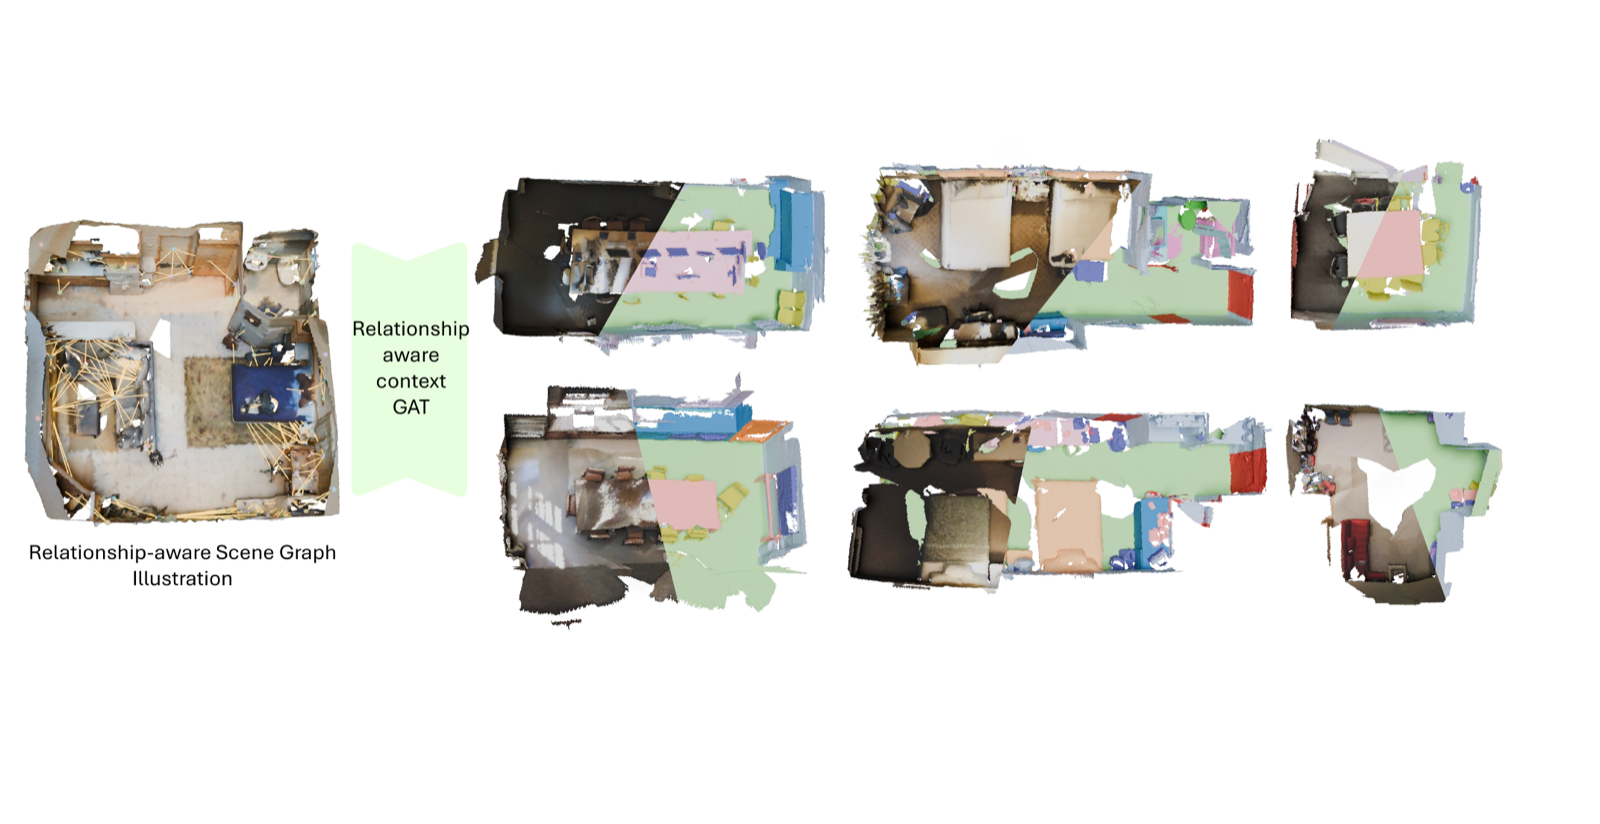
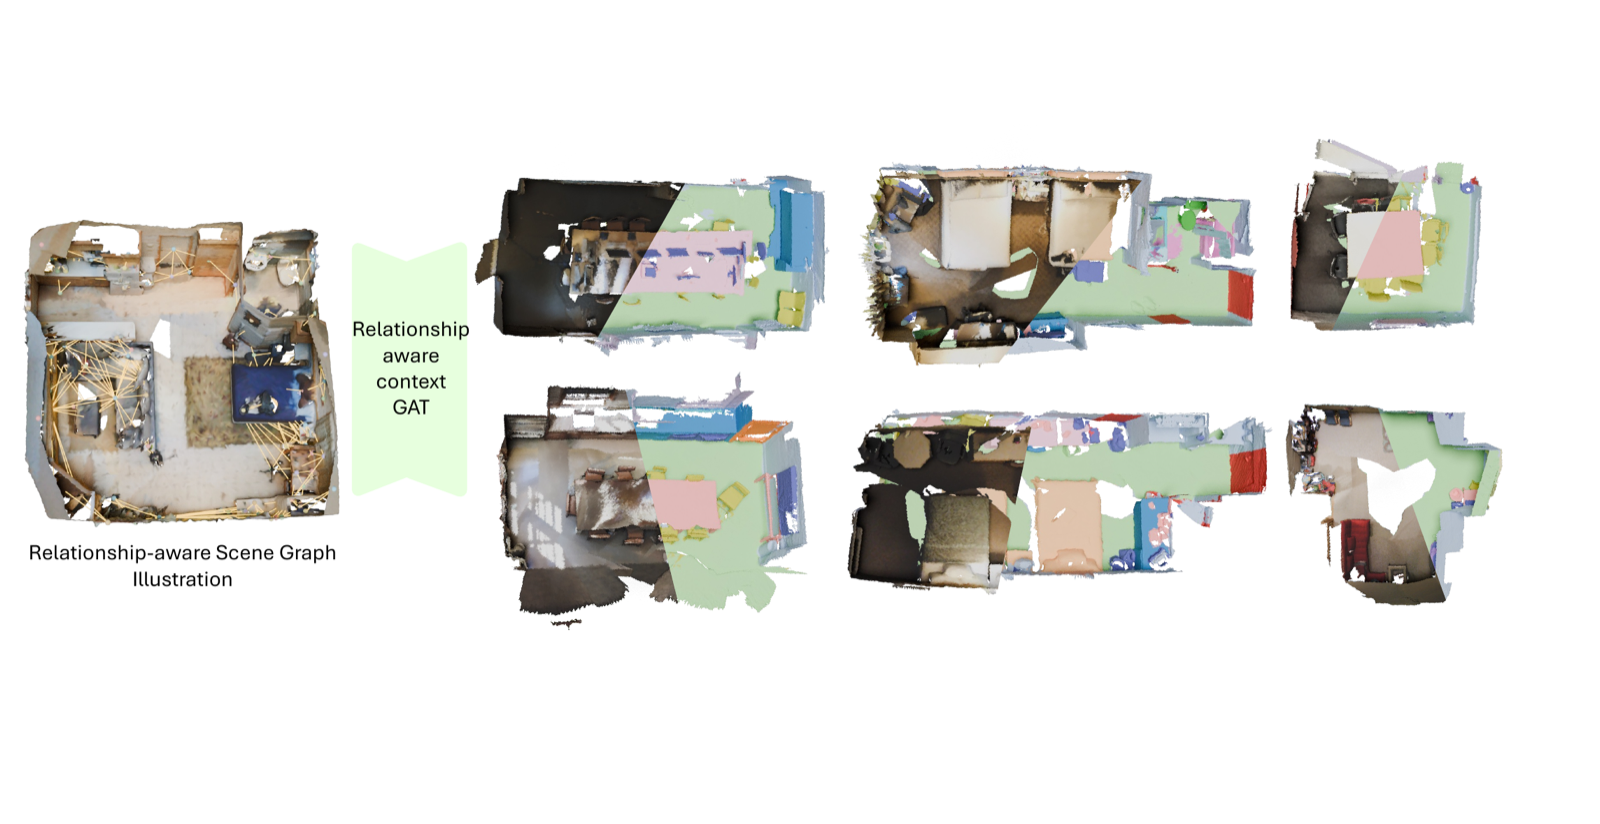
Add Experiments table carousel; refresh teaser and video
- New Experiments section: main (ScanNetV2/ScanNet200), ScanNet++, and Replica
  tables in a carousel; Ours row highlighted, column-best in bold
- Generalize carousel JS to support multiple carousels
- Regenerate teaser from teaser_eccv.pdf; swap in the compressed ECCV video
- Add Experiments nav anchor

diff --git a/index.html b/index.html
@@ -30,6 +30,7 @@
     <a class="nav-brand" href="#top">RelGraphOV</a>
     <div class="nav-right">
       <a class="nav-link" href="#video">Video</a>
+      <a class="nav-link" href="#experiments">Experiments</a>
       <a class="nav-link" href="#bibtex">BibTeX</a>
       <!-- More Research dropdown. TODO: replace each href="#" with the project page URL. -->
       <div class="nav-dropdown" id="more-research">
@@ -210,6 +211,93 @@
           </li>
         </ol>
       </div>
+    </div>
+  </div>
+</section>
+
+<!-- ===================== EXPERIMENTS (table carousel) ===================== -->
+<section class="section" id="experiments">
+  <div class="container is-max-desktop">
+    <h2 class="title is-3 has-text-centered">Experiments</h2>
+    <div class="carousel" id="exp-carousel">
+      <div class="carousel-track">
+
+        <!-- Slide 1: main table -->
+        <div class="carousel-slide">
+          <div class="table-wrap">
+            <table class="exp-table">
+              <thead>
+                <tr><th rowspan="2" class="lcol">Method</th><th colspan="2">ScanNetV2</th><th colspan="2">ScanNet200</th></tr>
+                <tr><th>mIoU</th><th>mAcc</th><th>mIoU</th><th>mAcc</th></tr>
+              </thead>
+              <tbody>
+                <tr><td class="lcol">MSeg Voting</td><td>45.6</td><td>54.4</td><td>–</td><td>–</td></tr>
+                <tr><td class="lcol">PLA</td><td>17.7</td><td>33.5</td><td>1.8</td><td>3.1</td></tr>
+                <tr><td class="lcol">RegionPLC</td><td>43.8</td><td>65.6</td><td>6.5</td><td>15.9</td></tr>
+                <tr><td class="lcol">OpenMask3D</td><td>34.0</td><td>–</td><td>10.5</td><td>–</td></tr>
+                <tr><td class="lcol">MaskClustering</td><td>34.4</td><td>59.6</td><td>11.8</td><td>24.7</td></tr>
+                <tr><td class="lcol">OpenScene-2D</td><td>50.0</td><td>62.7</td><td>8.8</td><td>13.5</td></tr>
+                <tr><td class="lcol">OpenScene-3D</td><td>52.9</td><td>63.2</td><td>6.8</td><td>8.7</td></tr>
+                <tr><td class="lcol">OpenScene-2D3D</td><td>54.2</td><td>66.6</td><td>7.9</td><td>11.4</td></tr>
+                <tr><td class="lcol">DMA</td><td>50.5</td><td>63.7</td><td>8.7</td><td>11.3</td></tr>
+                <tr><td class="lcol">Mosaic3D</td><td>48.9</td><td><b>73.6</b></td><td>12.4</td><td>25.1</td></tr>
+                <tr><td class="lcol">CUA-O3D</td><td>55.3</td><td>65.6</td><td>6.4</td><td>8.8</td></tr>
+                <tr><td class="lcol">OV3D</td><td>57.3</td><td>72.9</td><td>8.7</td><td>–</td></tr>
+                <tr class="ours"><td class="lcol">RelGraphOV (Ours)</td><td><b>58.4</b></td><td>73.4</td><td><b>14.5</b></td><td><b>26.1</b></td></tr>
+              </tbody>
+            </table>
+          </div>
+          <p class="caption">Open-vocabulary 3D semantic segmentation on ScanNetV2 and ScanNet200 (mIoU/mAcc, %). Column-best in bold.</p>
+        </div>
+
+        <!-- Slide 2: ScanNet++ -->
+        <div class="carousel-slide">
+          <div class="table-wrap">
+            <table class="exp-table">
+              <thead>
+                <tr><th class="lcol">Method</th><th>mIoU</th><th>mAcc</th></tr>
+              </thead>
+              <tbody>
+                <tr><td class="lcol">OpenScene-2D</td><td>13.30</td><td>20.00</td></tr>
+                <tr><td class="lcol">OpenScene-3D</td><td>8.88</td><td>13.59</td></tr>
+                <tr><td class="lcol">OpenScene-2D3D</td><td>11.72</td><td>15.34</td></tr>
+                <tr><td class="lcol">CUA-O3D</td><td>9.30</td><td>13.69</td></tr>
+                <tr class="ours"><td class="lcol">RelGraphOV (Ours)</td><td><b>20.90</b></td><td><b>33.20</b></td></tr>
+              </tbody>
+            </table>
+          </div>
+          <p class="caption">Zero-shot cross-dataset evaluation on ScanNet++ (100-class setting); all methods trained only on ScanNet.</p>
+        </div>
+
+        <!-- Slide 3: Replica head/common/tail -->
+        <div class="carousel-slide">
+          <div class="table-wrap">
+            <table class="exp-table">
+              <thead>
+                <tr>
+                  <th rowspan="2" class="lcol">Method</th>
+                  <th colspan="2">All</th><th colspan="2">Head</th><th colspan="2">Common</th><th colspan="2">Tail</th>
+                </tr>
+                <tr>
+                  <th>mIoU</th><th>mAcc</th><th>mIoU</th><th>mAcc</th>
+                  <th>mIoU</th><th>mAcc</th><th>mIoU</th><th>mAcc</th>
+                </tr>
+              </thead>
+              <tbody>
+                <tr><td class="lcol">OpenScene-2D</td><td>12.9</td><td>19.4</td><td>31.8</td><td>43.1</td><td>6.1</td><td>13.9</td><td>1.2</td><td>1.2</td></tr>
+                <tr><td class="lcol">OpenScene-3D</td><td>10.4</td><td>17.4</td><td>26.8</td><td>38.5</td><td>4.5</td><td>13.5</td><td>0.0</td><td>0.0</td></tr>
+                <tr><td class="lcol">OpenNeRF<sup>&dagger;</sup></td><td>20.4</td><td>31.7</td><td>35.4</td><td>46.2</td><td>20.1</td><td>31.3</td><td>5.8</td><td><b>17.6</b></td></tr>
+                <tr class="ours"><td class="lcol">RelGraphOV (Ours)</td><td><b>22.7</b></td><td><b>32.7</b></td><td><b>38.4</b></td><td><b>55.2</b></td><td><b>22.4</b></td><td><b>33.7</b></td><td><b>7.3</b></td><td>9.2</td></tr>
+              </tbody>
+            </table>
+          </div>
+          <p class="caption">Zero-shot evaluation on Replica with head/common/tail breakdown. <sup>&dagger;</sup>OpenNeRF uses per-scene optimization (not strict zero-shot).</p>
+        </div>
+
+      </div>
+      <button class="carousel-btn prev" aria-label="Previous"><i class="fas fa-chevron-left"></i></button>
+      <button class="carousel-btn next" aria-label="Next"><i class="fas fa-chevron-right"></i></button>
+      <div class="carousel-dots"></div>
     </div>
   </div>
 </section>

diff --git a/static/js/index.js b/static/js/index.js
@@ -13,42 +13,35 @@
   });
 })();
 
-// ---------- Qualitative results carousel (vanilla, no deps) ----------
+// ---------- Carousels (vanilla, no deps; supports multiple) ----------
 (function () {
-  var carousel = document.getElementById('results-carousel');
-  if (!carousel) return;
+  function initCarousel(carousel) {
+    var slides = Array.prototype.slice.call(carousel.querySelectorAll('.carousel-slide'));
+    if (!slides.length) return;
+    var dotsWrap = carousel.querySelector('.carousel-dots');
+    var prevBtn = carousel.querySelector('.carousel-btn.prev');
+    var nextBtn = carousel.querySelector('.carousel-btn.next');
+    var current = 0;
 
-  var slides = Array.prototype.slice.call(carousel.querySelectorAll('.carousel-slide'));
-  var dotsWrap = carousel.querySelector('.carousel-dots');
-  var prevBtn = carousel.querySelector('.carousel-btn.prev');
-  var nextBtn = carousel.querySelector('.carousel-btn.next');
-  var current = 0;
+    slides.forEach(function (_, i) {
+      var dot = document.createElement('span');
+      dot.className = 'dot' + (i === 0 ? ' active' : '');
+      dot.addEventListener('click', function () { go(i); });
+      dotsWrap.appendChild(dot);
+    });
+    var dots = Array.prototype.slice.call(dotsWrap.children);
 
-  if (!slides.length) return;
+    function render() {
+      slides.forEach(function (s, i) { s.classList.toggle('active', i === current); });
+      dots.forEach(function (d, i) { d.classList.toggle('active', i === current); });
+    }
+    function go(i) { current = (i + slides.length) % slides.length; render(); }
 
-  // Build dots
-  slides.forEach(function (_, i) {
-    var dot = document.createElement('span');
-    dot.className = 'dot' + (i === 0 ? ' active' : '');
-    dot.addEventListener('click', function () { go(i); });
-    dotsWrap.appendChild(dot);
-  });
-  var dots = Array.prototype.slice.call(dotsWrap.children);
-
-  function render() {
-    slides.forEach(function (s, i) { s.classList.toggle('active', i === current); });
-    dots.forEach(function (d, i) { d.classList.toggle('active', i === current); });
+    prevBtn.addEventListener('click', function () { go(current - 1); });
+    nextBtn.addEventListener('click', function () { go(current + 1); });
+    render();
   }
-  function go(i) { current = (i + slides.length) % slides.length; render(); }
-
-  prevBtn.addEventListener('click', function () { go(current - 1); });
-  nextBtn.addEventListener('click', function () { go(current + 1); });
-  document.addEventListener('keydown', function (e) {
-    if (e.key === 'ArrowLeft') go(current - 1);
-    if (e.key === 'ArrowRight') go(current + 1);
-  });
-
-  render();
+  document.querySelectorAll('.carousel').forEach(initCarousel);
 })();
 
 // ---------- Copy BibTeX ----------

diff --git a/static/css/index.css b/static/css/index.css
@@ -316,6 +316,41 @@ figure.image img {
 }
 .carousel-dots .dot.active { background: var(--accent); }
 
+/* ---------- Experiment tables ---------- */
+.table-wrap {
+  overflow-x: auto;
+  -webkit-overflow-scrolling: touch;
+  max-width: 100%;
+  margin: 0 auto 0;
+}
+.exp-table {
+  width: 100%;
+  min-width: 460px;
+  border-collapse: collapse;
+  font-size: .86rem;
+  color: var(--ink);
+  border-top: 1.5px solid var(--ink);
+}
+.exp-table thead th {
+  font-weight: 700;
+  padding: .5rem .7rem;
+  text-align: center;
+  white-space: nowrap;
+}
+.exp-table thead tr:first-child th { border-bottom: 1px solid var(--line); }
+.exp-table thead tr:last-child th { border-bottom: 1.5px solid var(--ink); }
+.exp-table tbody td {
+  padding: .42rem .7rem;
+  text-align: center;
+  white-space: nowrap;
+  border-bottom: 1px solid var(--line);
+}
+.exp-table .lcol { text-align: left; }
+.exp-table tbody tr:last-child td { border-bottom: 1.5px solid var(--ink); }
+.exp-table tbody tr.ours { background: var(--accent-soft); }
+.exp-table tbody tr.ours .lcol { font-weight: 700; color: var(--accent-dark); }
+.exp-table sup { font-size: .7em; }
+
 /* ---------- BibTeX ---------- */
 .bibtex-wrap { position: relative; max-width: 820px; margin: 0 auto; }
 .bibtex-wrap pre {